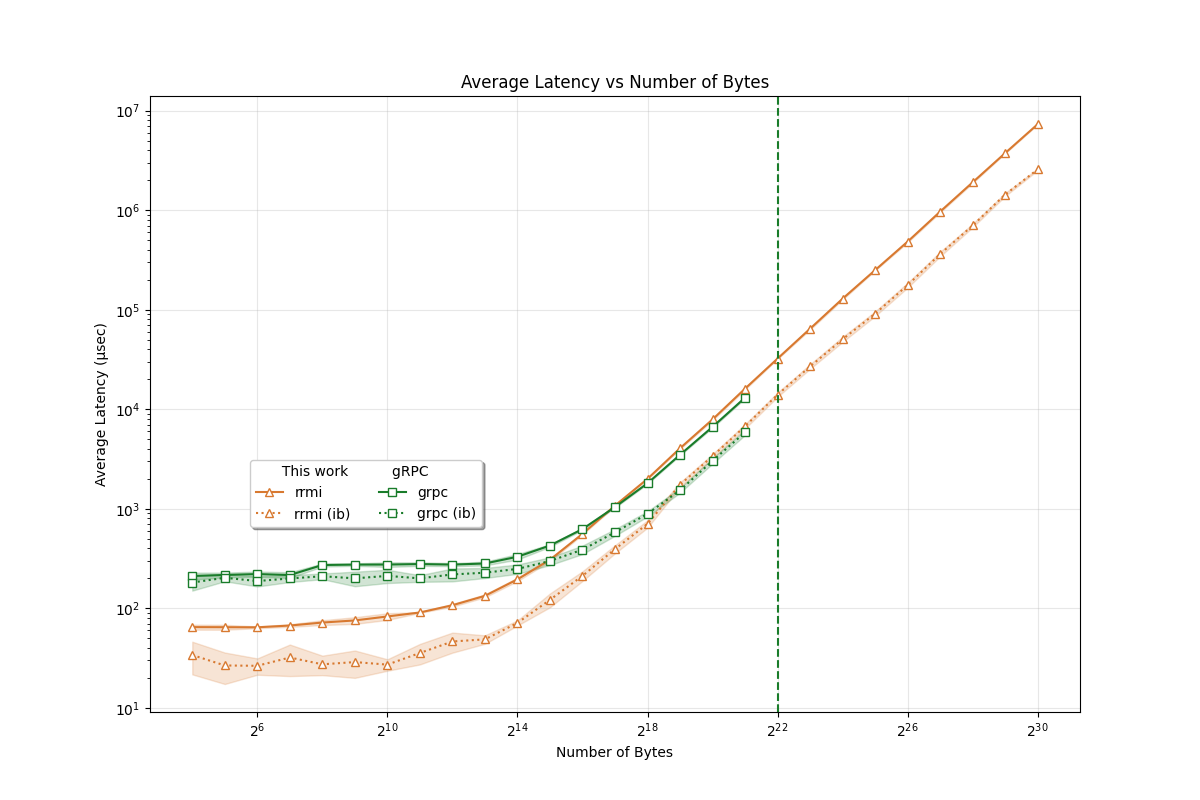
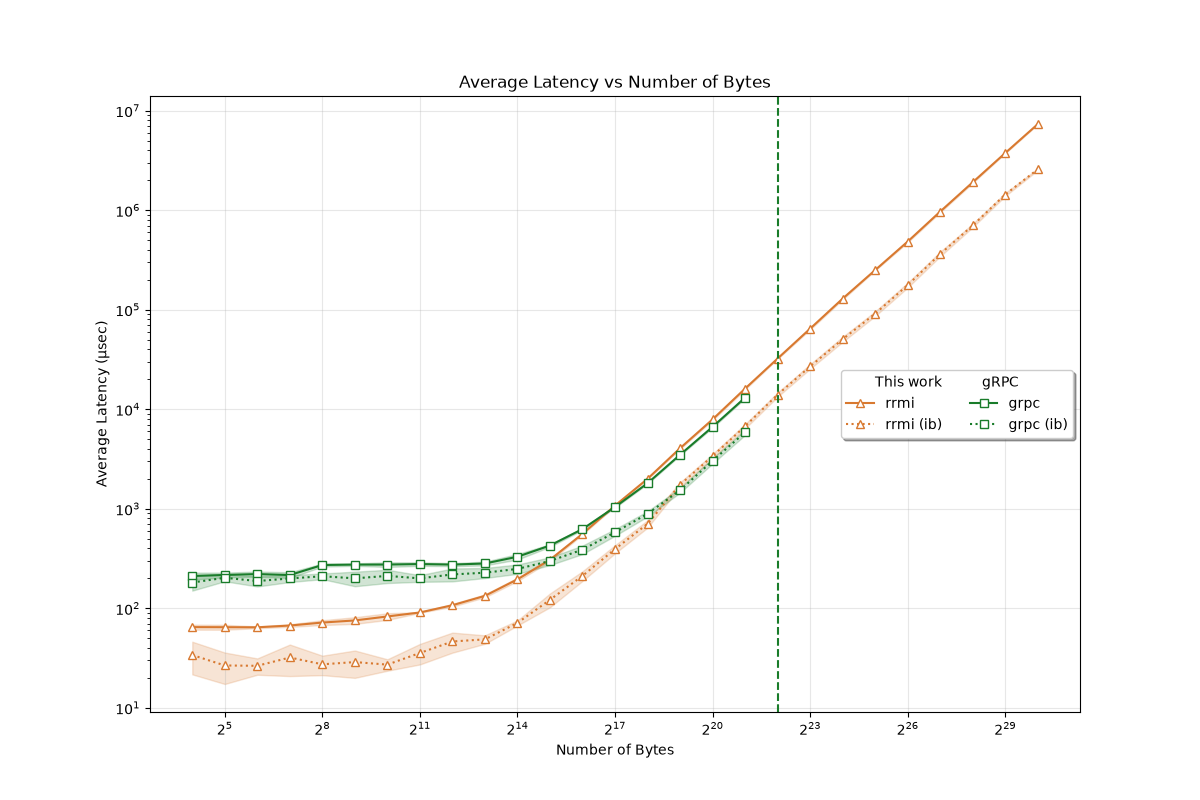
plots

diff --git a/experiment_client/plot.py b/experiment_client/plot.py
@@ -59,8 +59,14 @@ linestyle_values = ['dotted','solid','dashed']
 linestyles = dict(zip(type_keys,linestyle_values))
 marker_values = ['.','s','^']
 markers = dict(zip(type_keys,marker_values))
+global m_list
+global s_list
+l_list=[]
+t_list=[]
+ls_list=[]
+ts_list=[]
 
-def plot(df,cols,ax,color,linestyles,markers,text):
+def plot(df,cols,ax,color,linestyles,markers,framework):
     for t, sub in df.groupby(["Type"],sort=False)[cols]:
         sub = sub.sort_values('NClients')
         mean = sub.groupby(['NClients']).mean()
@@ -69,7 +75,7 @@ def plot(df,cols,ax,color,linestyles,markers,text):
 
         linestyle = linestyles[t[0]]
         marker = markers[t[0]]
-        label = t[0] + text
+        label = t[0]
 
         for c,a in zip(mean.columns,ax):
             m = mean[c]
@@ -80,7 +86,7 @@ def plot(df,cols,ax,color,linestyles,markers,text):
 
             a.set_xlabel('Number of Clients')
             a.legend(
-                title = "This work"+" "*25+"Java RMI"+" "*35+"gRPC"+" "*10,
+                title = " "*10 + "This work"+" "*20+"Java RMI"+" "*25+"gRPC"+" "*10,
                 ncol=3,shadow=True, 
                 bbox_to_anchor = (0.1,0.12,0.4,.47),
                 loc="center left"
@@ -88,13 +94,28 @@ def plot(df,cols,ax,color,linestyles,markers,text):
             a.grid(True, alpha=0.3)
             a.set_yscale("log")
 
-plot(eth_rust,cols,eth_ax,o,linestyles,markers,"")
-plot(eth_java,cols,eth_ax,b,linestyles,markers,"")
-plot(eth_rust_grpc,cols,eth_ax,g,linestyles,markers,"")
+            type = m.name
+            m.name = framework + "_" +  t[0]
+            s.name = framework + "_" +  t[0]
+            if type=="Latency":
+                l_list.append(m)
+                ls_list.append(s)
+            else:
+                t_list.append(m)
+                ts_list.append(s)
 
-plot(ib_rust,cols,ib_ax,o,linestyles,markers,"")
-plot(ib_java,cols,ib_ax,b,linestyles,markers,"")
-plot(ib_rust_grpc,cols,ib_ax,g,linestyles,markers,"")
+plot(eth_rust,cols,eth_ax,o,linestyles,markers,"rrmi")
+plot(eth_java,cols,eth_ax,b,linestyles,markers,"Java RMI")
+plot(eth_rust_grpc,cols,eth_ax,g,linestyles,markers,"gRPC")
+
+plot(ib_rust,cols,ib_ax,o,linestyles,markers,"rrmi (ib)")
+plot(ib_java,cols,ib_ax,b,linestyles,markers,"Java RMI (ib)")
+plot(ib_rust_grpc,cols,ib_ax,g,linestyles,markers,"gRPC (ib)")
+
+latency = pd.concat(l_list,axis=1)
+throughput = pd.concat(t_list,axis=1)
+print(latency)
+print(throughput)
 
 ax_lat.set_ylabel('Average Latency (μsec)')
 ax_lat.set_title('Average Latency vs Number of Clients - Using Ethernet')

diff --git a/experiment_vec/plot_vec.py b/experiment_vec/plot_vec.py
@@ -57,17 +57,21 @@ marker_values = ['^','s'] *2
 markers = dict(zip(type_keys,marker_values))
 
 x_key = "Size"
-def plot(df,cols,ax,color,linestyles,markers,text):
+l_list=[]
+t_list=[]
+ls_list=[]
+ts_list=[]
+def plot(df,cols,ax,color,linestyles,markers,framework):
     sub = df[cols]
     sub = sub.sort_values(x_key)
     mean = sub.groupby([x_key]).mean()
     std = sub.groupby([x_key]).std()
     num_clients = mean.index.values
 
-    linestyle = linestyles[text]
-    marker = markers[text]
+    linestyle = linestyles[framework]
+    marker = markers[framework]
     # color = colors[text]
-    label = text
+    label = framework
 
     for c,a in zip(mean.columns,ax):
         m = mean[c]
@@ -81,18 +85,33 @@ def plot(df,cols,ax,color,linestyles,markers,text):
         a.legend(
             title = " "*5+"This work"+" "*10+"gRPC"+" "*10,
             ncol=2,shadow=True, 
-            bbox_to_anchor = (0.1,0.12,0.4,.47),
-            loc="center left"
+            # bbox_to_anchor = (0.1,0.12,0.4,.47),
+            loc="center right"
             )
         a.grid(True, alpha=0.3)
         a.set_yscale("log")
         a.set_xscale("log",base=2,)
+
+        type = m.name
+        m.name = framework + "_"
+        s.name = framework + "_"
+        if type=="Latency":
+            l_list.append(m)
+            ls_list.append(s)
+        else:
+            t_list.append(m)
+            ts_list.append(s)
 
 plot(eth_rust,cols,eth_ax,o,linestyles,markers,"rrmi")
 plot(ib_rust,cols,eth_ax,o,linestyles,markers,"rrmi"+ib_text)
 
 plot(eth_rust_grpc,cols,eth_ax,g,linestyles,markers,"grpc")
 plot(ib_rust_grpc,cols,eth_ax,g,linestyles,markers,"grpc"+ib_text)
+
+latency = pd.concat(l_list,axis=1)
+throughput = pd.concat(t_list,axis=1)
+print(latency)
+print(throughput)
 
 eth_ax[0].axvline(2**22,color=g,linestyle="dashed")
 eth_ax[1].axvline(2**22,color=g,linestyle='dashed')
